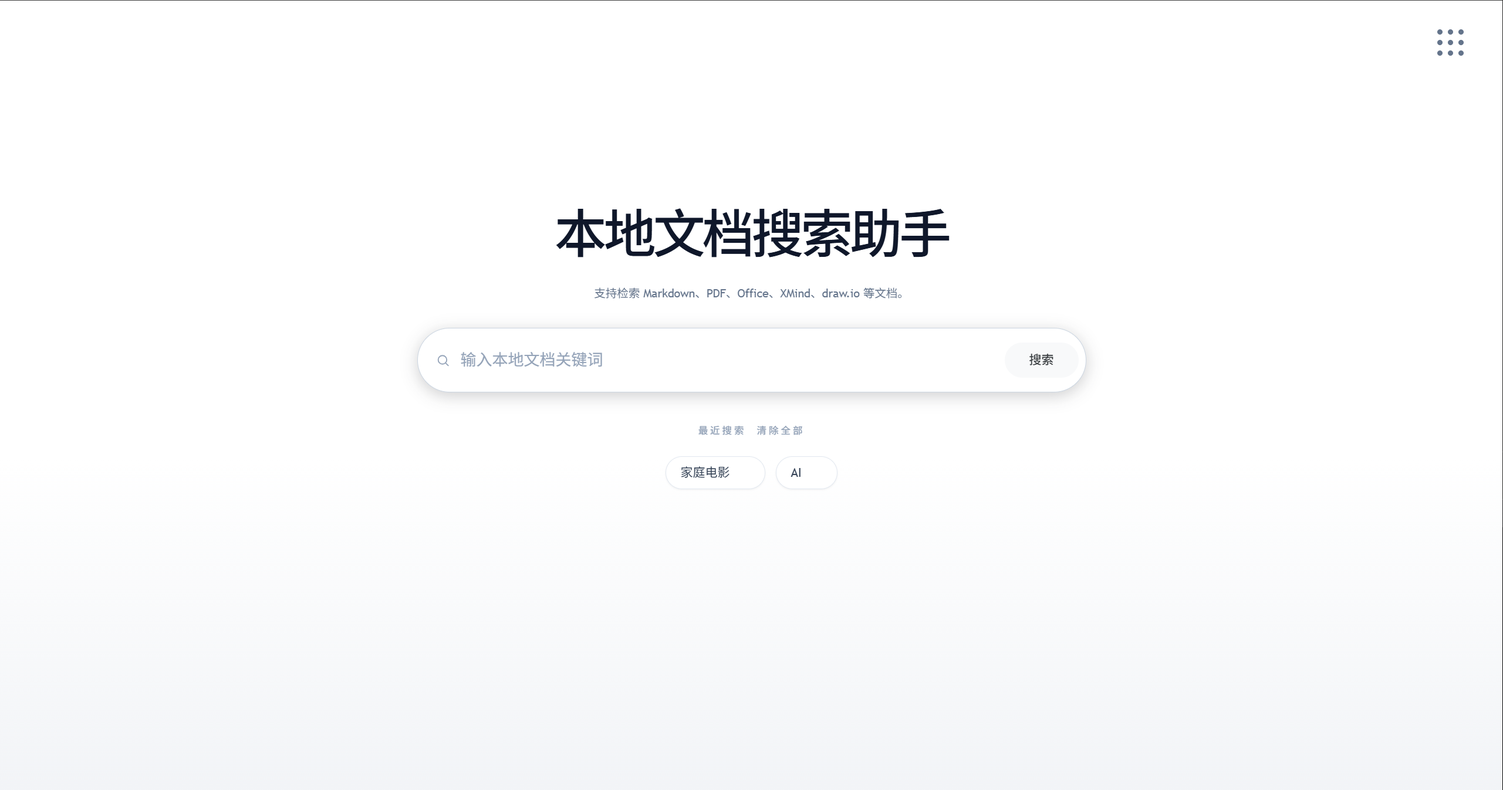
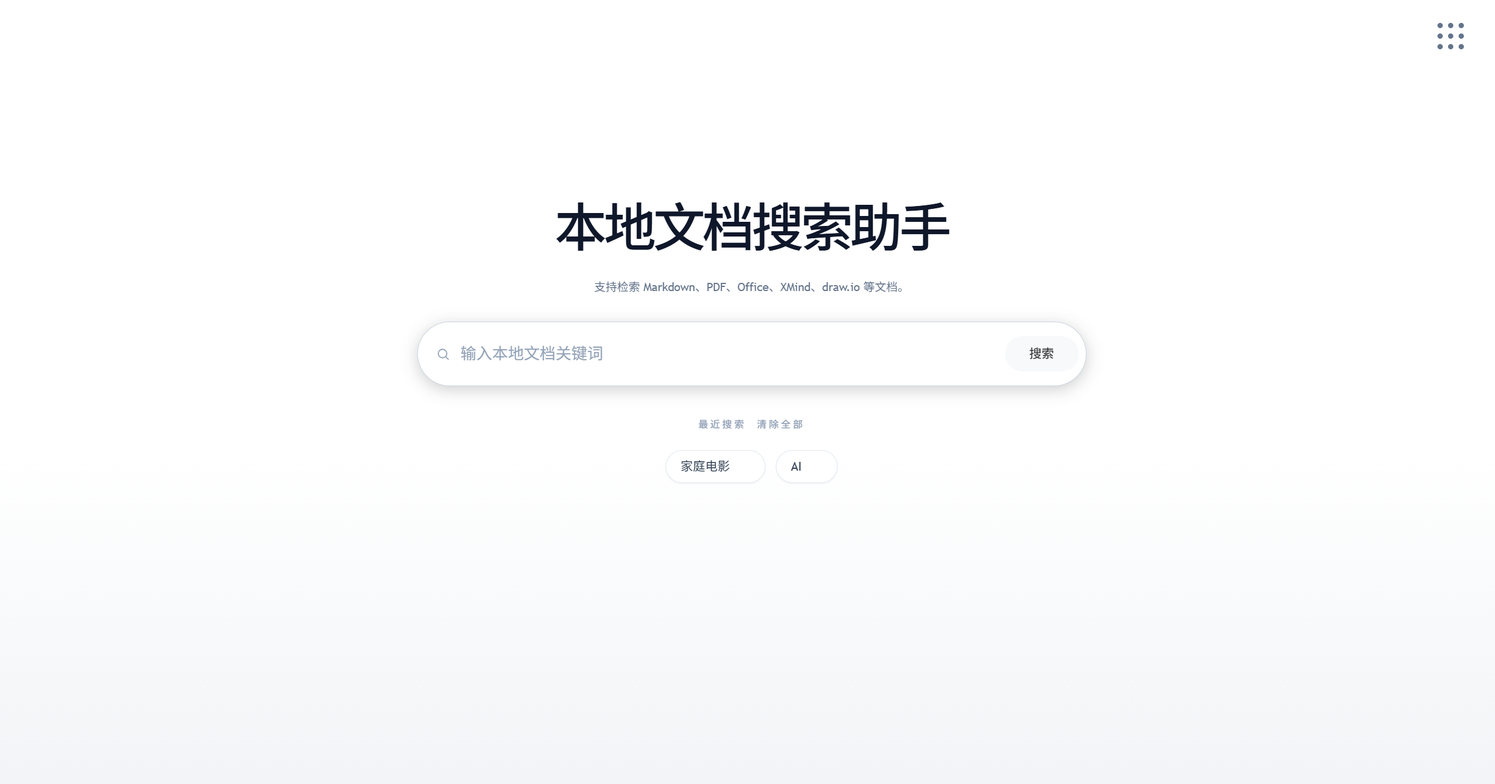
支持 Tailwind CSS 离线使用

diff --git a/src/local_document_search/static/css/tailwind.css b/src/local_document_search/static/css/tailwind.css
@@ -1,0 +1,2 @@
+/*! tailwindcss v4.1.18 | MIT License | https://tailwindcss.com */
+@layer properties{@supports (((-webkit-hyphens:none)) and (not (margin-trim:inline))) or ((-moz-orient:inline) and (not (color:rgb(from red r g b)))){*,:before,:after,::backdrop{--tw-translate-x:0;--tw-translate-y:0;--tw-translate-z:0;--tw-rotate-x:initial;--tw-rotate-y:initial;--tw-rotate-z:initial;--tw-skew-x:initial;--tw-skew-y:initial;--tw-space-y-reverse:0;--tw-divide-y-reverse:0;--tw-border-style:solid;--tw-leading:initial;--tw-font-weight:initial;--tw-tracking:initial;--tw-shadow:0 0 #0000;--tw-shadow-color:initial;--tw-shadow-alpha:100%;--tw-inset-shadow:0 0 #0000;--tw-inset-shadow-color:initial;--tw-inset-shadow-alpha:100%;--tw-ring-color:initial;--tw-ring-shadow:0 0 #0000;--tw-inset-ring-color:initial;--tw-inset-ring-shadow:0 0 #0000;--tw-ring-inset:initial;--tw-ring-offset-width:0px;--tw-ring-offset-color:#fff;--tw-ring-offset-shadow:0 0 #0000;--tw-outline-style:solid;--tw-blur:initial;--tw-brightness:initial;--tw-contrast:initial;--tw-grayscale:initial;--tw-hue-rotate:initial;--tw-invert:initial;--tw-opacity:initial;--tw-saturate:initial;--tw-sepia:initial;--tw-drop-shadow:initial;--tw-drop-shadow-color:initial;--tw-drop-shadow-alpha:100%;--tw-drop-shadow-size:initial;--tw-backdrop-blur:initial;--tw-backdrop-brightness:initial;--tw-backdrop-contrast:initial;--tw-backdrop-grayscale:initial;--tw-backdrop-hue-rotate:initial;--tw-backdrop-invert:initial;--tw-backdrop-opacity:initial;--tw-backdrop-saturate:initial;--tw-backdrop-sepia:initial}}}@layer theme{:root,:host{--font-sans:"Trebuchet MS","Noto Sans SC","Segoe UI",sans-serif;--font-mono:ui-monospace,SFMono-Regular,Menlo,Monaco,Consolas,"Liberation Mono","Courier New",monospace;--color-slate-50:oklch(98.4% .003 247.858);--color-slate-100:oklch(96.8% .007 247.896);--color-slate-200:oklch(92.9% .013 255.508);--color-slate-300:oklch(86.9% .022 252.894);--color-slate-400:oklch(70.4% .04 256.788);--color-slate-500:oklch(55.4% .046 257.417);--color-slate-600:oklch(44.6% .043 257.281);--color-slate-700:oklch(37.2% .044 257.287);--color-slate-800:oklch(27.9% .041 260.031);--color-slate-900:oklch(20.8% .042 265.755);--color-slate-950:oklch(12.9% .042 264.695);--color-white:#fff;--spacing:.25rem;--container-2xl:42rem;--container-5xl:64rem;--text-xs:.75rem;--text-xs--line-height:calc(1/.75);--text-sm:.875rem;--text-sm--line-height:calc(1.25/.875);--text-base:1rem;--text-base--line-height:calc(1.5/1);--text-lg:1.125rem;--text-lg--line-height:calc(1.75/1.125);--text-2xl:1.5rem;--text-2xl--line-height:calc(2/1.5);--text-3xl:1.875rem;--text-3xl--line-height:calc(2.25/1.875);--font-weight-normal:400;--font-weight-medium:500;--font-weight-semibold:600;--radius-3xl:1.5rem;--animate-spin:spin 1s linear infinite;--default-transition-duration:.15s;--default-transition-timing-function:cubic-bezier(.4,0,.2,1);--default-font-family:var(--font-sans);--default-mono-font-family:var(--font-mono);--color-brand-blue:#4285f4;--color-brand-red:#ea4335;--color-brand-yellow:#fbbc05;--color-brand-green:#34a853}}@layer base{*,:after,:before,::backdrop{box-sizing:border-box;border:0 solid;margin:0;padding:0}::file-selector-button{box-sizing:border-box;border:0 solid;margin:0;padding:0}html,:host{-webkit-text-size-adjust:100%;tab-size:4;line-height:1.5;font-family:var(--default-font-family,ui-sans-serif,system-ui,sans-serif,"Apple Color Emoji","Segoe UI Emoji","Segoe UI Symbol","Noto Color Emoji");font-feature-settings:var(--default-font-feature-settings,normal);font-variation-settings:var(--default-font-variation-settings,normal);-webkit-tap-highlight-color:transparent}hr{height:0;color:inherit;border-top-width:1px}abbr:where([title]){-webkit-text-decoration:underline dotted;text-decoration:underline dotted}h1,h2,h3,h4,h5,h6{font-size:inherit;font-weight:inherit}a{color:inherit;-webkit-text-decoration:inherit;-webkit-text-decoration:inherit;-webkit-text-decoration:inherit;text-decoration:inherit}b,strong{font-weight:bolder}code,kbd,samp,pre{font-family:var(--default-mono-font-family,ui-monospace,SFMono-Regular,Menlo,Monaco,Consolas,"Liberation Mono","Courier New",monospace);font-feature-settings:var(--default-mono-font-feature-settings,normal);font-variation-settings:var(--default-mono-font-variation-settings,normal);font-size:1em}small{font-size:80%}sub,sup{vertical-align:baseline;font-size:75%;line-height:0;position:relative}sub{bottom:-.25em}sup{top:-.5em}table{text-indent:0;border-color:inherit;border-collapse:collapse}:-moz-focusring{outline:auto}progress{vertical-align:baseline}summary{display:list-item}ol,ul,menu{list-style:none}img,svg,video,canvas,audio,iframe,embed,object{vertical-align:middle;display:block}img,video{max-width:100%;height:auto}button,input,select,optgroup,textarea{font:inherit;font-feature-settings:inherit;font-variation-settings:inherit;letter-spacing:inherit;color:inherit;opacity:1;background-color:#0000;border-radius:0}::file-selector-button{font:inherit;font-feature-settings:inherit;font-variation-settings:inherit;letter-spacing:inherit;color:inherit;opacity:1;background-color:#0000;border-radius:0}:where(select:is([multiple],[size])) optgroup{font-weight:bolder}:where(select:is([multiple],[size])) optgroup option{padding-inline-start:20px}::file-selector-button{margin-inline-end:4px}::placeholder{opacity:1}@supports (not ((-webkit-appearance:-apple-pay-button))) or (contain-intrinsic-size:1px){::placeholder{color:currentColor}@supports (color:color-mix(in lab, red, red)){::placeholder{color:color-mix(in oklab,currentcolor 50%,transparent)}}}textarea{resize:vertical}::-webkit-search-decoration{-webkit-appearance:none}::-webkit-date-and-time-value{min-height:1lh;text-align:inherit}::-webkit-datetime-edit{display:inline-flex}::-webkit-datetime-edit-fields-wrapper{padding:0}::-webkit-datetime-edit{padding-block:0}::-webkit-datetime-edit-year-field{padding-block:0}::-webkit-datetime-edit-month-field{padding-block:0}::-webkit-datetime-edit-day-field{padding-block:0}::-webkit-datetime-edit-hour-field{padding-block:0}::-webkit-datetime-edit-minute-field{padding-block:0}::-webkit-datetime-edit-second-field{padding-block:0}::-webkit-datetime-edit-millisecond-field{padding-block:0}::-webkit-datetime-edit-meridiem-field{padding-block:0}::-webkit-calendar-picker-indicator{line-height:1}:-moz-ui-invalid{box-shadow:none}button,input:where([type=button],[type=reset],[type=submit]){appearance:button}::file-selector-button{appearance:button}::-webkit-inner-spin-button{height:auto}::-webkit-outer-spin-button{height:auto}[hidden]:where(:not([hidden=until-found])){display:none!important}}@layer components;@layer utilities{.pointer-events-none{pointer-events:none}.absolute{position:absolute}.relative{position:relative}.static{position:static}.sticky{position:sticky}.top-0{top:calc(var(--spacing)*0)}.top-1\/2{top:50%}.top-16{top:calc(var(--spacing)*16)}.right-0{right:calc(var(--spacing)*0)}.right-2{right:calc(var(--spacing)*2)}.z-10{z-index:10}.z-20{z-index:20}.mx-auto{margin-inline:auto}.mt-1{margin-top:calc(var(--spacing)*1)}.mt-2{margin-top:calc(var(--spacing)*2)}.mt-3{margin-top:calc(var(--spacing)*3)}.mt-4{margin-top:calc(var(--spacing)*4)}.mt-5{margin-top:calc(var(--spacing)*5)}.mt-6{margin-top:calc(var(--spacing)*6)}.mt-7{margin-top:calc(var(--spacing)*7)}.mt-9{margin-top:calc(var(--spacing)*9)}.mt-12{margin-top:calc(var(--spacing)*12)}.mb-2{margin-bottom:calc(var(--spacing)*2)}.mb-3{margin-bottom:calc(var(--spacing)*3)}.mb-4{margin-bottom:calc(var(--spacing)*4)}.mb-7{margin-bottom:calc(var(--spacing)*7)}.block{display:block}.flex{display:flex}.grid{display:grid}.hidden{display:none}.inline-block{display:inline-block}.inline-flex{display:inline-flex}.table{display:table}.h-1\.5{height:calc(var(--spacing)*1.5)}.h-3\.5{height:calc(var(--spacing)*3.5)}.h-4{height:calc(var(--spacing)*4)}.h-5{height:calc(var(--spacing)*5)}.h-6{height:calc(var(--spacing)*6)}.h-10{height:calc(var(--spacing)*10)}.min-h-screen{min-height:100vh}.w-1\.5{width:calc(var(--spacing)*1.5)}.w-3\.5{width:calc(var(--spacing)*3.5)}.w-4{width:calc(var(--spacing)*4)}.w-5{width:calc(var(--spacing)*5)}.w-6{width:calc(var(--spacing)*6)}.w-10{width:calc(var(--spacing)*10)}.w-\[320px\]{width:320px}.w-full{width:100%}.max-w-2xl{max-width:var(--container-2xl)}.max-w-5xl{max-width:var(--container-5xl)}.max-w-\[15rem\]{max-width:15rem}.max-w-\[620px\]{max-width:620px}.max-w-\[720px\]{max-width:720px}.max-w-\[760px\]{max-width:760px}.max-w-\[1280px\]{max-width:1280px}.max-w-full{max-width:100%}.max-w-none{max-width:none}.min-w-0{min-width:calc(var(--spacing)*0)}.min-w-10{min-width:calc(var(--spacing)*10)}.min-w-full{min-width:100%}.flex-1{flex:1}.flex-shrink{flex-shrink:1}.shrink-0{flex-shrink:0}.border-collapse{border-collapse:collapse}.-translate-y-1\/2{--tw-translate-y:calc(calc(1/2*100%)*-1);translate:var(--tw-translate-x)var(--tw-translate-y)}.transform{transform:var(--tw-rotate-x,)var(--tw-rotate-y,)var(--tw-rotate-z,)var(--tw-skew-x,)var(--tw-skew-y,)}.animate-spin{animation:var(--animate-spin)}.grid-cols-2{grid-template-columns:repeat(2,minmax(0,1fr))}.grid-cols-3{grid-template-columns:repeat(3,minmax(0,1fr))}.flex-col{flex-direction:column}.flex-wrap{flex-wrap:wrap}.items-center{align-items:center}.items-start{align-items:flex-start}.justify-between{justify-content:space-between}.justify-center{justify-content:center}.justify-end{justify-content:flex-end}.gap-1\.5{gap:calc(var(--spacing)*1.5)}.gap-2{gap:calc(var(--spacing)*2)}.gap-3{gap:calc(var(--spacing)*3)}.gap-4{gap:calc(var(--spacing)*4)}.gap-5{gap:calc(var(--spacing)*5)}:where(.space-y-2>:not(:last-child)){--tw-space-y-reverse:0;margin-block-start:calc(calc(var(--spacing)*2)*var(--tw-space-y-reverse));margin-block-end:calc(calc(var(--spacing)*2)*calc(1 - var(--tw-space-y-reverse)))}:where(.space-y-4>:not(:last-child)){--tw-space-y-reverse:0;margin-block-start:calc(calc(var(--spacing)*4)*var(--tw-space-y-reverse));margin-block-end:calc(calc(var(--spacing)*4)*calc(1 - var(--tw-space-y-reverse)))}:where(.space-y-5>:not(:last-child)){--tw-space-y-reverse:0;margin-block-start:calc(calc(var(--spacing)*5)*var(--tw-space-y-reverse));margin-block-end:calc(calc(var(--spacing)*5)*calc(1 - var(--tw-space-y-reverse)))}:where(.space-y-8>:not(:last-child)){--tw-space-y-reverse:0;margin-block-start:calc(calc(var(--spacing)*8)*var(--tw-space-y-reverse));margin-block-end:calc(calc(var(--spacing)*8)*calc(1 - var(--tw-space-y-reverse)))}.gap-x-3{column-gap:calc(var(--spacing)*3)}.gap-x-5{column-gap:calc(var(--spacing)*5)}.gap-y-2{row-gap:calc(var(--spacing)*2)}:where(.divide-y>:not(:last-child)){--tw-divide-y-reverse:0;border-bottom-style:var(--tw-border-style);border-top-style:var(--tw-border-style);border-top-width:calc(1px*var(--tw-divide-y-reverse));border-bottom-width:calc(1px*calc(1 - var(--tw-divide-y-reverse)))}:where(.divide-slate-100>:not(:last-child)){border-color:var(--color-slate-100)}:where(.divide-slate-200>:not(:last-child)){border-color:var(--color-slate-200)}.truncate{text-overflow:ellipsis;white-space:nowrap;overflow:hidden}.overflow-x-auto{overflow-x:auto}.rounded{border-radius:.25rem}.rounded-3xl{border-radius:var(--radius-3xl)}.rounded-\[0\.5rem\]{border-radius:.5rem}.rounded-\[1\.1rem\]{border-radius:1.1rem}.rounded-\[1\.5rem\]{border-radius:1.5rem}.rounded-\[1\.25rem\]{border-radius:1.25rem}.rounded-\[1\.75rem\]{border-radius:1.75rem}.rounded-\[1\.125rem\]{border-radius:1.125rem}.rounded-\[1rem\]{border-radius:1rem}.rounded-\[2rem\]{border-radius:2rem}.rounded-full{border-radius:3.40282e38px}.border{border-style:var(--tw-border-style);border-width:1px}.border-2{border-style:var(--tw-border-style);border-width:2px}.border-t{border-top-style:var(--tw-border-style);border-top-width:1px}.border-b{border-bottom-style:var(--tw-border-style);border-bottom-width:1px}.border-dashed{--tw-border-style:dashed;border-style:dashed}.border-brand-blue{border-color:var(--color-brand-blue)}.border-brand-red{border-color:var(--color-brand-red)}.border-slate-100{border-color:var(--color-slate-100)}.border-slate-200{border-color:var(--color-slate-200)}.border-slate-300{border-color:var(--color-slate-300)}.border-transparent{border-color:#0000}.border-t-transparent{border-top-color:#0000}.bg-slate-50{background-color:var(--color-slate-50)}.bg-slate-50\/80{background-color:#f8fafccc}@supports (color:color-mix(in lab, red, red)){.bg-slate-50\/80{background-color:color-mix(in oklab,var(--color-slate-50)80%,transparent)}}.bg-slate-500{background-color:var(--color-slate-500)}.bg-slate-950{background-color:var(--color-slate-950)}.bg-white{background-color:var(--color-white)}.bg-white\/95{background-color:#fffffff2}@supports (color:color-mix(in lab, red, red)){.bg-white\/95{background-color:color-mix(in oklab,var(--color-white)95%,transparent)}}.bg-\[linear-gradient\(180deg\,\#ffffff_0\%\,\#ffffff_58\%\,\#f2f4f7_100\%\)\]{background-image:linear-gradient(#fff 0% 58%,#f2f4f7 100%)}.p-1{padding:calc(var(--spacing)*1)}.p-3{padding:calc(var(--spacing)*3)}.p-4{padding:calc(var(--spacing)*4)}.p-5{padding:calc(var(--spacing)*5)}.p-8{padding:calc(var(--spacing)*8)}.px-2{padding-inline:calc(var(--spacing)*2)}.px-3{padding-inline:calc(var(--spacing)*3)}.px-4{padding-inline:calc(var(--spacing)*4)}.px-5{padding-inline:calc(var(--spacing)*5)}.px-6{padding-inline:calc(var(--spacing)*6)}.py-1{padding-block:calc(var(--spacing)*1)}.py-2{padding-block:calc(var(--spacing)*2)}.py-2\.5{padding-block:calc(var(--spacing)*2.5)}.py-3{padding-block:calc(var(--spacing)*3)}.py-4{padding-block:calc(var(--spacing)*4)}.py-5{padding-block:calc(var(--spacing)*5)}.py-6{padding-block:calc(var(--spacing)*6)}.py-7{padding-block:calc(var(--spacing)*7)}.py-10{padding-block:calc(var(--spacing)*10)}.py-12{padding-block:calc(var(--spacing)*12)}.pt-4{padding-top:calc(var(--spacing)*4)}.pt-7{padding-top:calc(var(--spacing)*7)}.pt-\[clamp\(5\.5rem\,14vh\,9rem\)\]{padding-top:clamp(5.5rem,14vh,9rem)}.pr-2{padding-right:calc(var(--spacing)*2)}.pr-10{padding-right:calc(var(--spacing)*10)}.pb-3{padding-bottom:calc(var(--spacing)*3)}.pb-4{padding-bottom:calc(var(--spacing)*4)}.pb-5{padding-bottom:calc(var(--spacing)*5)}.pb-24{padding-bottom:calc(var(--spacing)*24)}.text-center{text-align:center}.text-left{text-align:left}.font-mono{font-family:var(--font-mono)}.text-2xl{font-size:var(--text-2xl);line-height:var(--tw-leading,var(--text-2xl--line-height))}.text-base{font-size:var(--text-base);line-height:var(--tw-leading,var(--text-base--line-height))}.text-lg{font-size:var(--text-lg);line-height:var(--tw-leading,var(--text-lg--line-height))}.text-sm{font-size:var(--text-sm);line-height:var(--tw-leading,var(--text-sm--line-height))}.text-xs{font-size:var(--text-xs);line-height:var(--tw-leading,var(--text-xs--line-height))}.text-\[1\.45rem\]{font-size:1.45rem}.text-\[2\.65rem\]{font-size:2.65rem}.text-\[2rem\]{font-size:2rem}.text-\[11px\]{font-size:11px}.text-\[13px\]{font-size:13px}.text-\[15px\]{font-size:15px}.leading-5{--tw-leading:calc(var(--spacing)*5);line-height:calc(var(--spacing)*5)}.leading-7{--tw-leading:calc(var(--spacing)*7);line-height:calc(var(--spacing)*7)}.leading-8{--tw-leading:calc(var(--spacing)*8);line-height:calc(var(--spacing)*8)}.leading-\[1\.7\]{--tw-leading:1.7;line-height:1.7}.font-medium{--tw-font-weight:var(--font-weight-medium);font-weight:var(--font-weight-medium)}.font-normal{--tw-font-weight:var(--font-weight-normal);font-weight:var(--font-weight-normal)}.font-semibold{--tw-font-weight:var(--font-weight-semibold);font-weight:var(--font-weight-semibold)}.tracking-\[-0\.04em\]{--tw-tracking:-.04em;letter-spacing:-.04em}.tracking-\[-0\.08em\]{--tw-tracking:-.08em;letter-spacing:-.08em}.tracking-\[-0\.055em\]{--tw-tracking:-.055em;letter-spacing:-.055em}.tracking-\[0\.24em\]{--tw-tracking:.24em;letter-spacing:.24em}.break-words{overflow-wrap:break-word}.break-all{word-break:break-all}.whitespace-nowrap{white-space:nowrap}.whitespace-pre-wrap{white-space:pre-wrap}.text-\[\#1a0dab\]{color:#1a0dab}.text-\[\#1a73e8\]{color:#1a73e8}.text-brand-blue{color:var(--color-brand-blue)}.text-brand-green{color:var(--color-brand-green)}.text-brand-red{color:var(--color-brand-red)}.text-brand-yellow{color:var(--color-brand-yellow)}.text-slate-100{color:var(--color-slate-100)}.text-slate-400{color:var(--color-slate-400)}.text-slate-500{color:var(--color-slate-500)}.text-slate-600{color:var(--color-slate-600)}.text-slate-700{color:var(--color-slate-700)}.text-slate-800{color:var(--color-slate-800)}.text-slate-900{color:var(--color-slate-900)}.opacity-60{opacity:.6}.shadow-\[0_12px_36px_rgba\(15\,23\,42\,0\.06\)\]{--tw-shadow:0 12px 36px var(--tw-shadow-color,#0f172a0f);box-shadow:var(--tw-inset-shadow),var(--tw-inset-ring-shadow),var(--tw-ring-offset-shadow),var(--tw-ring-shadow),var(--tw-shadow)}.shadow-\[0_18px_60px_rgba\(15\,23\,42\,0\.07\)\]{--tw-shadow:0 18px 60px var(--tw-shadow-color,#0f172a12);box-shadow:var(--tw-inset-shadow),var(--tw-inset-ring-shadow),var(--tw-ring-offset-shadow),var(--tw-ring-shadow),var(--tw-shadow)}.shadow-\[0_24px_64px_rgba\(15\,23\,42\,0\.18\)\]{--tw-shadow:0 24px 64px var(--tw-shadow-color,#0f172a2e);box-shadow:var(--tw-inset-shadow),var(--tw-inset-ring-shadow),var(--tw-ring-offset-shadow),var(--tw-ring-shadow),var(--tw-shadow)}.shadow-sm{--tw-shadow:0 1px 3px 0 var(--tw-shadow-color,#0000001a),0 1px 2px -1px var(--tw-shadow-color,#0000001a);box-shadow:var(--tw-inset-shadow),var(--tw-inset-ring-shadow),var(--tw-ring-offset-shadow),var(--tw-ring-shadow),var(--tw-shadow)}.outline{outline-style:var(--tw-outline-style);outline-width:1px}.invert{--tw-invert:invert(100%);filter:var(--tw-blur,)var(--tw-brightness,)var(--tw-contrast,)var(--tw-grayscale,)var(--tw-hue-rotate,)var(--tw-invert,)var(--tw-saturate,)var(--tw-sepia,)var(--tw-drop-shadow,)}.backdrop-blur{--tw-backdrop-blur:blur(8px);-webkit-backdrop-filter:var(--tw-backdrop-blur,)var(--tw-backdrop-brightness,)var(--tw-backdrop-contrast,)var(--tw-backdrop-grayscale,)var(--tw-backdrop-hue-rotate,)var(--tw-backdrop-invert,)var(--tw-backdrop-opacity,)var(--tw-backdrop-saturate,)var(--tw-backdrop-sepia,);backdrop-filter:var(--tw-backdrop-blur,)var(--tw-backdrop-brightness,)var(--tw-backdrop-contrast,)var(--tw-backdrop-grayscale,)var(--tw-backdrop-hue-rotate,)var(--tw-backdrop-invert,)var(--tw-backdrop-opacity,)var(--tw-backdrop-saturate,)var(--tw-backdrop-sepia,)}.transition{transition-property:color,background-color,border-color,outline-color,text-decoration-color,fill,stroke,--tw-gradient-from,--tw-gradient-via,--tw-gradient-to,opacity,box-shadow,transform,translate,scale,rotate,filter,-webkit-backdrop-filter,backdrop-filter,display,content-visibility,overlay,pointer-events;transition-timing-function:var(--tw-ease,var(--default-transition-timing-function));transition-duration:var(--tw-duration,var(--default-transition-duration))}.select-all{-webkit-user-select:all;user-select:all}.group-focus-within\:flex:is(:where(.group):focus-within *){display:flex}@media (hover:hover){.group-hover\:flex:is(:where(.group):hover *){display:flex}.hover\:border-slate-100:hover{border-color:var(--color-slate-100)}.hover\:border-slate-300:hover{border-color:var(--color-slate-300)}.hover\:bg-slate-50:hover{background-color:var(--color-slate-50)}.hover\:bg-slate-50\/60:hover{background-color:#f8fafc99}@supports (color:color-mix(in lab, red, red)){.hover\:bg-slate-50\/60:hover{background-color:color-mix(in oklab,var(--color-slate-50)60%,transparent)}}.hover\:bg-slate-100:hover{background-color:var(--color-slate-100)}.hover\:bg-slate-200:hover{background-color:var(--color-slate-200)}.hover\:bg-white:hover{background-color:var(--color-white)}.hover\:text-slate-500:hover{color:var(--color-slate-500)}.hover\:text-slate-600:hover{color:var(--color-slate-600)}.hover\:text-slate-700:hover{color:var(--color-slate-700)}.hover\:underline:hover{text-decoration-line:underline}.hover\:shadow:hover{--tw-shadow:0 1px 3px 0 var(--tw-shadow-color,#0000001a),0 1px 2px -1px var(--tw-shadow-color,#0000001a);box-shadow:var(--tw-inset-shadow),var(--tw-inset-ring-shadow),var(--tw-ring-offset-shadow),var(--tw-ring-shadow),var(--tw-shadow)}}@media (min-width:40rem){.sm\:max-w-\[28rem\]{max-width:28rem}.sm\:grid-cols-2{grid-template-columns:repeat(2,minmax(0,1fr))}.sm\:grid-cols-3{grid-template-columns:repeat(3,minmax(0,1fr))}.sm\:flex-row{flex-direction:row}.sm\:items-center{align-items:center}.sm\:justify-between{justify-content:space-between}.sm\:p-6{padding:calc(var(--spacing)*6)}.sm\:px-6{padding-inline:calc(var(--spacing)*6)}.sm\:px-8{padding-inline:calc(var(--spacing)*8)}.sm\:py-8{padding-block:calc(var(--spacing)*8)}.sm\:pb-28{padding-bottom:calc(var(--spacing)*28)}.sm\:text-3xl{font-size:var(--text-3xl);line-height:var(--tw-leading,var(--text-3xl--line-height))}.sm\:text-\[0\.8rem\]{font-size:.8rem}.sm\:text-\[1\.2rem\]{font-size:1.2rem}.sm\:text-\[3\.7rem\]{font-size:3.7rem}}@media (min-width:48rem){.md\:flex-row{flex-direction:row}.md\:items-start{align-items:flex-start}.md\:justify-between{justify-content:space-between}.md\:justify-end{justify-content:flex-end}}@media (min-width:64rem){.lg\:mt-0{margin-top:calc(var(--spacing)*0)}.lg\:block{display:block}.lg\:grid{display:grid}.lg\:max-w-\[30rem\]{max-width:30rem}.lg\:grid-cols-2{grid-template-columns:repeat(2,minmax(0,1fr))}.lg\:grid-cols-\[132px_minmax\(0\,720px\)\]{grid-template-columns:132px minmax(0,720px)}.lg\:grid-cols-\[minmax\(0\,1\.2fr\)_minmax\(220px\,0\.8fr\)_minmax\(220px\,0\.8fr\)_140px\]{grid-template-columns:minmax(0,1.2fr) minmax(220px,.8fr) minmax(220px,.8fr) 140px}.lg\:grid-cols-\[minmax\(0\,1\.8fr\)_minmax\(220px\,0\.9fr\)\]{grid-template-columns:minmax(0,1.8fr) minmax(220px,.9fr)}.lg\:flex-row{flex-direction:row}.lg\:items-center{align-items:center}.lg\:items-end{align-items:flex-end}.lg\:items-start{align-items:flex-start}.lg\:justify-between{justify-content:space-between}.lg\:gap-x-3{column-gap:calc(var(--spacing)*3)}.lg\:justify-self-end{justify-self:flex-end}.lg\:px-8{padding-inline:calc(var(--spacing)*8)}}@media (min-width:80rem){.xl\:grid-cols-2{grid-template-columns:repeat(2,minmax(0,1fr))}.xl\:grid-cols-4{grid-template-columns:repeat(4,minmax(0,1fr))}.xl\:px-10{padding-inline:calc(var(--spacing)*10)}}}@property --tw-translate-x{syntax:"*";inherits:false;initial-value:0}@property --tw-translate-y{syntax:"*";inherits:false;initial-value:0}@property --tw-translate-z{syntax:"*";inherits:false;initial-value:0}@property --tw-rotate-x{syntax:"*";inherits:false}@property --tw-rotate-y{syntax:"*";inherits:false}@property --tw-rotate-z{syntax:"*";inherits:false}@property --tw-skew-x{syntax:"*";inherits:false}@property --tw-skew-y{syntax:"*";inherits:false}@property --tw-space-y-reverse{syntax:"*";inherits:false;initial-value:0}@property --tw-divide-y-reverse{syntax:"*";inherits:false;initial-value:0}@property --tw-border-style{syntax:"*";inherits:false;initial-value:solid}@property --tw-leading{syntax:"*";inherits:false}@property --tw-font-weight{syntax:"*";inherits:false}@property --tw-tracking{syntax:"*";inherits:false}@property --tw-shadow{syntax:"*";inherits:false;initial-value:0 0 #0000}@property --tw-shadow-color{syntax:"*";inherits:false}@property --tw-shadow-alpha{syntax:"<percentage>";inherits:false;initial-value:100%}@property --tw-inset-shadow{syntax:"*";inherits:false;initial-value:0 0 #0000}@property --tw-inset-shadow-color{syntax:"*";inherits:false}@property --tw-inset-shadow-alpha{syntax:"<percentage>";inherits:false;initial-value:100%}@property --tw-ring-color{syntax:"*";inherits:false}@property --tw-ring-shadow{syntax:"*";inherits:false;initial-value:0 0 #0000}@property --tw-inset-ring-color{syntax:"*";inherits:false}@property --tw-inset-ring-shadow{syntax:"*";inherits:false;initial-value:0 0 #0000}@property --tw-ring-inset{syntax:"*";inherits:false}@property --tw-ring-offset-width{syntax:"<length>";inherits:false;initial-value:0}@property --tw-ring-offset-color{syntax:"*";inherits:false;initial-value:#fff}@property --tw-ring-offset-shadow{syntax:"*";inherits:false;initial-value:0 0 #0000}@property --tw-outline-style{syntax:"*";inherits:false;initial-value:solid}@property --tw-blur{syntax:"*";inherits:false}@property --tw-brightness{syntax:"*";inherits:false}@property --tw-contrast{syntax:"*";inherits:false}@property --tw-grayscale{syntax:"*";inherits:false}@property --tw-hue-rotate{syntax:"*";inherits:false}@property --tw-invert{syntax:"*";inherits:false}@property --tw-opacity{syntax:"*";inherits:false}@property --tw-saturate{syntax:"*";inherits:false}@property --tw-sepia{syntax:"*";inherits:false}@property --tw-drop-shadow{syntax:"*";inherits:false}@property --tw-drop-shadow-color{syntax:"*";inherits:false}@property --tw-drop-shadow-alpha{syntax:"<percentage>";inherits:false;initial-value:100%}@property --tw-drop-shadow-size{syntax:"*";inherits:false}@property --tw-backdrop-blur{syntax:"*";inherits:false}@property --tw-backdrop-brightness{syntax:"*";inherits:false}@property --tw-backdrop-contrast{syntax:"*";inherits:false}@property --tw-backdrop-grayscale{syntax:"*";inherits:false}@property --tw-backdrop-hue-rotate{syntax:"*";inherits:false}@property --tw-backdrop-invert{syntax:"*";inherits:false}@property --tw-backdrop-opacity{syntax:"*";inherits:false}@property --tw-backdrop-saturate{syntax:"*";inherits:false}@property --tw-backdrop-sepia{syntax:"*";inherits:false}@keyframes spin{to{transform:rotate(360deg)}}

diff --git a/src/local_document_search/templates/base.html b/src/local_document_search/templates/base.html
@@ -4,6 +4,7 @@
   <meta charset="UTF-8">
   <meta name="viewport" content="width=device-width, initial-scale=1.0">
   <title>{% block title %}本地文档搜索助手{% endblock %}</title>
+  {% if tailwind_asset_mode == "cdn" %}
   <script>
     tailwind = {
       config: {
@@ -26,6 +27,9 @@
     };
   </script>
   <script src="https://cdn.tailwindcss.com"></script>
+  {% else %}
+  <link rel="stylesheet" href="{{ url_for('static', filename='css/tailwind.css') }}">
+  {% endif %}
   <style>
     :root {
       color-scheme: light;

diff --git a/src/local_document_search/static_src/tailwind.css b/src/local_document_search/static_src/tailwind.css
@@ -1,0 +1,9 @@
+@import "tailwindcss" source("../templates");
+
+@theme {
+  --color-brand-blue: #4285f4;
+  --color-brand-red: #ea4335;
+  --color-brand-yellow: #fbbc05;
+  --color-brand-green: #34a853;
+  --font-sans: "Trebuchet MS", "Noto Sans SC", "Segoe UI", sans-serif;
+}

diff --git a/tests/integration/test_services.py b/tests/integration/test_services.py
@@ -19,7 +19,12 @@ from local_document_search import (
     build_service_container,
     create_app,
 )
-from local_document_search.config import DatabaseBackend, SearchMode, load_app_config
+from local_document_search.config import (
+    DatabaseBackend,
+    SearchMode,
+    TailwindAssetMode,
+    load_app_config,
+)
 from local_document_search.converters import ConverterFactory
 from local_document_search.converters.base import ConversionResult, ConversionStatus, ConversionType
 from local_document_search.exceptions import IndexCancelledError
@@ -1956,3 +1961,35 @@ def test_create_app_uses_explicit_config_for_service_container(test_environment:
     assert isinstance(services, ServiceContainer)
     assert app.config["FLASK_PORT"] == 5999
     assert services.config.flask_port == 5999
+
+
+def test_create_app_renders_cdn_tailwind_by_default(test_environment: Path) -> None:
+    """验证默认配置下页面继续加载 Tailwind CDN。"""
+
+    del test_environment
+    app = create_app()
+
+    with app.test_client() as client:
+        response = client.get("/", follow_redirects=True)
+
+    html = response.get_data(as_text=True)
+    assert response.status_code == 200
+    assert 'src="https://cdn.tailwindcss.com"' in html
+    assert "tailwind = {" in html
+
+
+def test_create_app_renders_local_tailwind_when_enabled(test_environment: Path) -> None:
+    """验证切换到本地模式后页面改为加载本地 Tailwind 产物。"""
+
+    del test_environment
+    base_config = load_app_config(force_reload=True)
+    custom_config = replace(base_config, tailwind_asset_mode=TailwindAssetMode.LOCAL)
+    app = create_app(config=custom_config)
+
+    with app.test_client() as client:
+        response = client.get("/", follow_redirects=True)
+
+    html = response.get_data(as_text=True)
+    assert response.status_code == 200
+    assert 'href="/static/css/tailwind.css"' in html
+    assert "https://cdn.tailwindcss.com" not in html

diff --git a/src/local_document_search/config.py b/src/local_document_search/config.py
@@ -33,6 +33,13 @@ class LargeFileIndexMode(StrEnum):
     METADATA = "metadata"
 
 
+class TailwindAssetMode(StrEnum):
+    """Web 页面 Tailwind 资源来源。"""
+
+    CDN = "cdn"
+    LOCAL = "local"
+
+
 @dataclass(frozen=True)
 class AppConfig:
     """应用运行期配置对象。"""
@@ -46,6 +53,7 @@ class AppConfig:
     flask_host: str
     flask_port: int
     flask_debug: bool
+    tailwind_asset_mode: TailwindAssetMode
     log_level: str
     markitdown_timeout_seconds: int
     large_file_threshold_mb: int
@@ -99,6 +107,16 @@ def _parse_search_mode(raw_value: str | None, *, config_name: str) -> SearchMode
         return SearchMode(normalized_value)
     except ValueError as exc:
         raise ConfigurationError(f"{config_name} 仅支持 fulltext 或 fuzzy。") from exc
+
+
+def _parse_tailwind_asset_mode(raw_value: str | None) -> TailwindAssetMode:
+    """解析 Web 页面 Tailwind 资源来源。"""
+
+    normalized_value = (raw_value or TailwindAssetMode.CDN.value).strip().lower()
+    try:
+        return TailwindAssetMode(normalized_value)
+    except ValueError as exc:
+        raise ConfigurationError("TAILWIND_ASSET_MODE 仅支持 cdn 或 local。") from exc
 
 
 def _parse_postgresql_default_search_mode() -> SearchMode:
@@ -221,6 +239,7 @@ def load_app_config(force_reload: bool = False) -> AppConfig:
         flask_host=os.getenv("FLASK_HOST", "127.0.0.1"),
         flask_port=int(os.getenv("FLASK_PORT", "5000")),
         flask_debug=_parse_bool(os.getenv("FLASK_DEBUG"), False),
+        tailwind_asset_mode=_parse_tailwind_asset_mode(os.getenv("TAILWIND_ASSET_MODE")),
         log_level=os.getenv("LOG_LEVEL", "INFO").upper(),
         markitdown_timeout_seconds=_parse_positive_int(
             os.getenv("MARKITDOWN_TIMEOUT_SECONDS"),

diff --git a/tests/unit/test_config.py b/tests/unit/test_config.py
@@ -1,0 +1,47 @@
+"""配置解析相关单元测试。"""
+
+from __future__ import annotations
+
+import pytest
+
+from local_document_search import config as config_module
+from local_document_search.config import TailwindAssetMode
+from local_document_search.exceptions import ConfigurationError
+
+
+def test_load_app_config_defaults_tailwind_asset_mode_to_cdn(
+    monkeypatch: pytest.MonkeyPatch,
+) -> None:
+    """验证未显式配置时，Tailwind 资源来源默认使用 CDN。"""
+
+    monkeypatch.delenv("TAILWIND_ASSET_MODE", raising=False)
+    monkeypatch.setattr(config_module, "load_dotenv", lambda *args, **kwargs: None)
+
+    config = config_module.load_app_config(force_reload=True)
+
+    assert config.tailwind_asset_mode is TailwindAssetMode.CDN
+
+
+def test_load_app_config_accepts_local_tailwind_asset_mode(
+    monkeypatch: pytest.MonkeyPatch,
+) -> None:
+    """验证可以显式切换到本地 Tailwind 资源模式。"""
+
+    monkeypatch.setenv("TAILWIND_ASSET_MODE", "local")
+    monkeypatch.setattr(config_module, "load_dotenv", lambda *args, **kwargs: None)
+
+    config = config_module.load_app_config(force_reload=True)
+
+    assert config.tailwind_asset_mode is TailwindAssetMode.LOCAL
+
+
+def test_load_app_config_rejects_invalid_tailwind_asset_mode(
+    monkeypatch: pytest.MonkeyPatch,
+) -> None:
+    """验证非法的 Tailwind 资源模式会抛出配置错误。"""
+
+    monkeypatch.setenv("TAILWIND_ASSET_MODE", "offline")
+    monkeypatch.setattr(config_module, "load_dotenv", lambda *args, **kwargs: None)
+
+    with pytest.raises(ConfigurationError, match="TAILWIND_ASSET_MODE"):
+        config_module.load_app_config(force_reload=True)

diff --git a/src/local_document_search/__init__.py b/src/local_document_search/__init__.py
@@ -131,8 +131,15 @@ def create_app(
     app.config["FLASK_HOST"] = current_config.flask_host
     app.config["FLASK_PORT"] = current_config.flask_port
     app.config["FLASK_DEBUG"] = current_config.flask_debug
+    app.config["TAILWIND_ASSET_MODE"] = current_config.tailwind_asset_mode.value
     app.extensions["services"] = current_services
     app.add_template_filter(format_datetime_for_local_display, "local_datetime")
+
+    @app.context_processor
+    def inject_web_asset_settings() -> dict[str, str]:
+        """向模板注入静态资源选择配置。"""
+
+        return {"tailwind_asset_mode": current_config.tailwind_asset_mode.value}
 
     from local_document_search.routes import web_blueprint
 

diff --git a/tests/unit/test_postgresql_support.py b/tests/unit/test_postgresql_support.py
@@ -15,6 +15,7 @@ from local_document_search.config import (
     DatabaseBackend,
     LargeFileIndexMode,
     SearchMode,
+    TailwindAssetMode,
 )
 from local_document_search.persistence import database as database_module
 from local_document_search.persistence.search.postgresql_backend import (
@@ -44,6 +45,7 @@ def _make_config(
         flask_host="127.0.0.1",
         flask_port=5000,
         flask_debug=False,
+        tailwind_asset_mode=TailwindAssetMode.CDN,
         log_level="INFO",
         markitdown_timeout_seconds=90,
         large_file_threshold_mb=15,

diff --git a/README.md b/README.md
@@ -32,6 +32,33 @@ uv sync
 uv sync --extra dev
 ```
 
+如果你只想运行应用，可以跳过 Tailwind 的本地构建，默认会使用官方 CDN。
+
+如果你要在本机离线修改 Web UI 的 Tailwind 样式，请先把 `.env` 里的 `TAILWIND_ASSET_MODE` 改成 `local`，再按当前系统执行：
+
+Windows PowerShell：
+
+```powershell
+.\scripts\install-tailwind-standalone.ps1
+.\scripts\tailwind.ps1 build
+```
+
+Ubuntu 24.04 bash：
+
+```bash
+bash ./scripts/install-tailwind-standalone.sh
+bash ./scripts/tailwind.sh build
+```
+
+说明：
+
+- `TAILWIND_ASSET_MODE=cdn` 是默认值，页面继续使用 `https://cdn.tailwindcss.com`
+- `TAILWIND_ASSET_MODE=local` 时，页面改为加载本地编译产物 `src/local_document_search/static/css/tailwind.css`
+- 编译输入文件位于 `src/local_document_search/static_src/tailwind.css`
+- 安装脚本会下载固定版本 `v4.1.18` 的 standalone CLI 到 `tools/tailwind/`
+- 日常开发可使用 `.\scripts\tailwind.ps1 watch` 或 `bash ./scripts/tailwind.sh watch` 持续监听模板变更
+- 如果只运行应用、不改样式，可以完全不安装 standalone CLI
+
 ### 2. 创建配置文件
 
 ```powershell
@@ -44,6 +71,7 @@ Copy-Item .env.example .env
 - `POSTGRESQL_DEFAULT_SEARCH_MODE`
 - `SQLITE_DB_PATH` 或 `DATABASE_URL`
 - `SEARCH_DIRS`
+- `TAILWIND_ASSET_MODE`
 
 PostgreSQL 建议显式使用 `psycopg` 驱动前缀：
 
@@ -104,6 +132,20 @@ uv run python run.py
 默认访问地址：`http://127.0.0.1:5000`
 
 到这一步，你应该已经跑通了“初始化 -> 索引 -> 搜索 -> 打开 Web”的完整闭环。
+
+如果你正在调整 Web 模板样式，建议额外开一个终端执行：
+
+Windows PowerShell：
+
+```powershell
+.\scripts\tailwind.ps1 watch
+```
+
+Ubuntu 24.04 bash：
+
+```bash
+bash ./scripts/tailwind.sh watch
+```
 
 如果你计划在 Ubuntu 24.04 上运行，请继续阅读：
 
@@ -173,6 +215,7 @@ uv run python doc-cli.py clean "D:\docs" --dry-run
 
 - `scripts\doc-cli.cmd`
 - `scripts\doc-cli.ps1`
+- `scripts/doc-cli.sh`
 
 把项目的 `scripts` 目录加入当前用户的 `PATH`。
 
@@ -189,7 +232,16 @@ doc-cli search "历史"
 
 - `doc-cli.cmd` 适用于 `cmd`、PowerShell、Windows Terminal，兼容性最好
 - `doc-cli.ps1` 提供 PowerShell 原生入口
-- 两个脚本都会自动定位仓库根目录并转发到 `uv run python doc-cli.py`，不依赖当前工作目录
+- `doc-cli.sh` 适用于 Ubuntu 24.04、WSL、Git Bash 等 bash 环境
+- 三个脚本都会自动定位仓库根目录并转发到 `uv run python doc-cli.py`，不依赖当前工作目录
+
+Ubuntu 24.04 / bash 使用示例：
+
+```bash
+bash ./scripts/doc-cli.sh --help
+bash ./scripts/doc-cli.sh index "/data/documents"
+bash ./scripts/doc-cli.sh search "测试"
+```
 
 
 ## 项目结构

diff --git a/docs/engineering/本地文档搜索助手_Ubuntu_24.04_部署指南.md b/docs/engineering/本地文档搜索助手_Ubuntu_24.04_部署指南.md
@@ -41,7 +41,7 @@ Ubuntu 24.04 上当前支持情况如下：
 
 - 旧版 Office 正文提取当前依赖 Windows 本机 Office / COM 自动化；Ubuntu 24.04 下会自动回退为元数据索引
 - “打开文件”“打开所在目录”依赖 `xdg-open` 和桌面环境；在无桌面的服务器环境中，这类操作通常不可用
-- `scripts/doc-cli.cmd`、`scripts/doc-cli.ps1` 是 Windows 包装脚本，Ubuntu 24.04 下不适用
+- 项目额外提供 `scripts/doc-cli.sh` 作为 Ubuntu 24.04 / bash 包装脚本
 
 ## 2. 环境准备
 
@@ -250,14 +250,21 @@ Web 页面中的：
 - Ubuntu 桌面版：通常可以使用
 - Ubuntu Server 无桌面：通常不可用或无实际效果
 
-### 7.3 Windows 包装脚本不可用
+### 7.3 CLI 包装脚本
 
 以下脚本只适用于 Windows：
 
 - `scripts/doc-cli.cmd`
 - `scripts/doc-cli.ps1`
 
-Ubuntu 24.04 下请直接使用：
+Ubuntu 24.04 下推荐使用：
+
+```bash
+bash ./scripts/doc-cli.sh --help
+bash ./scripts/doc-cli.sh --help-plain
+```
+
+如果你不想使用包装脚本，也可以直接执行：
 
 ```bash
 uv run python doc-cli.py --help
